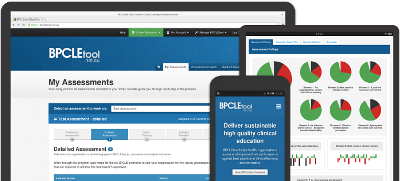
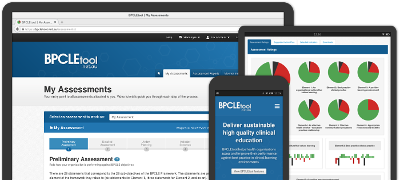
Update connect launch date, update project images (use new template)

diff --git a/_projects/connect.md b/_projects/connect.md
@@ -15,7 +15,7 @@ feature_image:
 
 github_url: https://github.com/nlhkabu/connect
 
-priority: 1
+priority: 2
 
 sections:
 -   |
